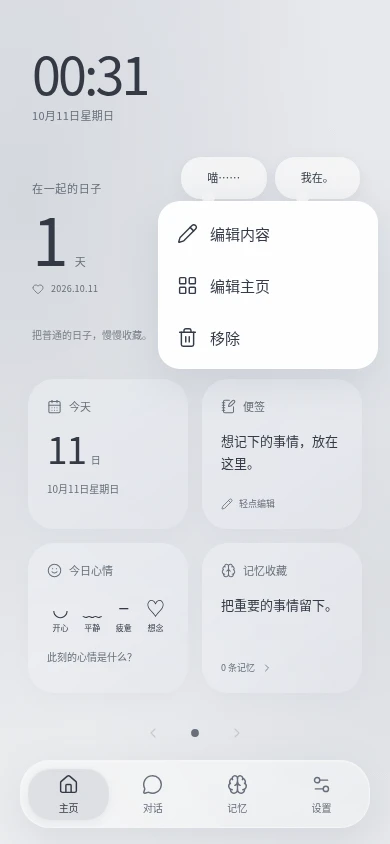
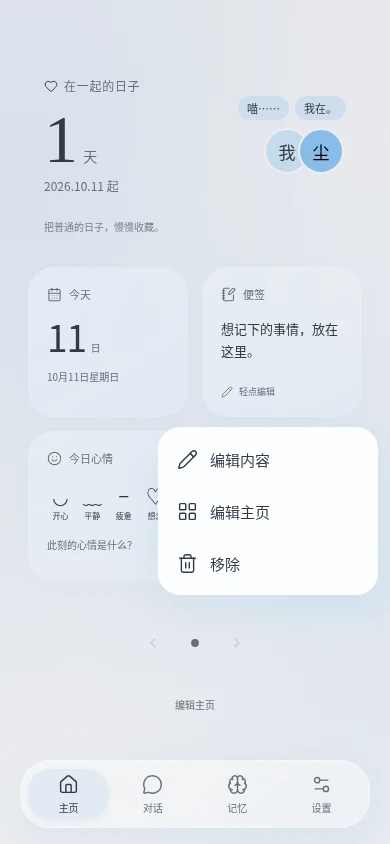
Redesign transparent anniversary widget and add sample pastel themes

diff --git a/src/views.js b/src/views.js
@@ -1,4 +1,5 @@
 import { icon } from './icons.js';
+export const THEME_PRESETS=[['天蓝','#8dc3f0'],['樱粉','#f2a7be'],['蜜桃','#f7b99a'],['柠檬','#f4d66e'],['抹茶','#b3d79b'],['薄荷','#8ed6c0'],['香芋','#b7a2e2']];
 import { daysTogether, isExpired, orderedSessions } from './store.js';
 export const escape = value => String(value ?? '').replace(/[&<>"']/g, c => ({'&':'&amp;','<':'&lt;','>':'&gt;','"':'&quot;',"'":'&#39;'}[c]));
 export const button = (action, symbol, label, extra = '') => `<button type="button" data-action="${action}" aria-label="${label}" ${extra}>${icon(symbol)}</button>`;
@@ -27,7 +28,6 @@ export function plugins(state) {
  return `<div class="info-banner">当前仅管理配置；MCP 与插件运行尚未接入。</div><div class="plugin-list">${state.plugins.length ? state.plugins.map(p => `<article class="plugin-card"><div class="plugin-top"><div class="plugin-symbol">${icon('puzzle')}</div><div><h2>${escape(p.name)}</h2><p>${escape(p.type === 'mcp' ? '远程 MCP' : '插件配置')}</p></div>${button('delete-plugin','trash','删除插件配置',`data-id="${escape(p.id)}"`)}</div><p class="endpoint">${escape(p.url)}</p><div class="plugin-bottom"><span>未连接 · 仅配置</span><button data-action="edit-plugin" data-id="${escape(p.id)}">编辑</button></div></article>`).join('') : `<div class="empty-card">${icon('puzzle')}<h2>还没有添加插件</h2><p>先收藏你想接入的服务，<br>等运行层准备好，再让它们开始工作。</p></div>`}</div><form id="plugin-form" class="panel"><div class="section-title"><h2 id="plugin-form-title">添加配置</h2><span>MCP / PLUGIN</span></div><input type="hidden" name="id">${field('名称','name','','例如：搜索工具') }<label class="field"><span>类型</span><select name="type"><option value="mcp">远程 MCP</option><option value="plugin">插件</option></select></label>${field('服务地址','url','','https://example.com/mcp','url')}<p class="hint">此版本不连接地址，也不执行插件代码。请勿在地址中填写密钥。</p><button class="primary" type="submit">保存配置</button></form>`;
 }
 export const widgetLabels = {date:'今天',note:'便签',mood:'今日心情',memory:'记忆收藏'};
-const date = () => new Date().toLocaleDateString('zh-CN',{month:'long',day:'numeric',weekday:'long'});
 export function home(state,ui={}) {
  const h=state.home,days=daysTogether(h.since),memories=state.memories.filter(m=>!isExpired(m)),editing=!!ui.editing;
  const label=type=>escape(h.widgetTitles?.[type]||widgetLabels[type]);
@@ -39,7 +39,7 @@ export function home(state,ui={}) {
  memory:`<button class="widget glass memory-widget" data-action="memory"><span class="widget-label">${icon('memory')}${label('memory')}</span><p>${escape(chosen?.title||'把重要的事情留下。')}</p><span class="widget-foot">${memories.length} 条记忆 ${icon('chevron')}</span></button>`
  };
  const wrap=(type,content)=>`<div class="home-widget ${type==='anniversary'?'hero-widget':''}" data-home-widget="${type}" tabindex="0" aria-label="${type==='anniversary'?'纪念日':label(type)}，${editing?'拖拽移动，Alt 加方向键调整位置':'长按或右键打开菜单'}"><div class="widget-surface" ${editing?'inert':''}>${content}</div>${editing?`<div class="widget-drag-surface" aria-hidden="true"></div><button class="widget-remove" data-home-action="hide" data-type="${type}" aria-label="移除${type==='anniversary'?'纪念日':label(type)}">${icon('close')}</button>`:''}</div>`;
- const hero=`<section class="anniversary"><div class="home-clock"><time data-home-clock aria-label="当前时间，24 小时制">${new Date().toLocaleTimeString('en-GB',{hour:'2-digit',minute:'2-digit',hour12:false})}</time><span>${date()}</span></div><div class="anniversary-bottom"><div class="anniversary-days"><span class="anniversary-title">${escape(h.title)}</span><div class="day-count ${String(days>0?days:1-(days||0)).length>4?'long-count':''}"><strong data-home-days>${days>0?days:1-(days||0)}</strong><span data-home-days-unit>${days>0?'天':'天后开始'}</span></div><span class="since">${icon('heart')}${escape(h.since.replaceAll('-','.'))}</span></div><div class="home-partners">${[['user',h.userName,h.userBubble||'喵……'],['ai',state.persona.name,h.aiBubble||'我在。']].map(([who,name,bubble])=>`<div class="home-partner"><span class="thought-bubble"><span>${escape(bubble)}</span></span>${avatar(state,who)}<span class="partner-name">${escape(name)}</span></div>`).join('')}</div></div>${h.subtitle?`<p>${escape(h.subtitle)}</p>`:''}</section>`;
+ const hero=`<section class="anniversary anniversary-horizontal"><div class="anniversary-row"><div class="anniversary-days"><span class="anniversary-title">${icon('heart')}${escape(h.title)}</span><div class="day-count ${String(days>0?days:1-(days||0)).length>4?'long-count':''}"><strong data-home-days>${days>0?days:1-(days||0)}</strong><span data-home-days-unit>${days>0?'天':'天后开始'}</span></div><span class="since">${escape(h.since.replaceAll('-','.'))} 起</span></div><div class="anniversary-companions"><div class="anniversary-bubbles">${[['user',h.userName,h.userBubble||'喵……'],['ai',state.persona.name,h.aiBubble||'我在。']].map(([who,name,bubble])=>`<span class="anniversary-pill" title="${escape(name)}：${escape(bubble)}"><span class="sr-only">${escape(name)}：</span>${escape(bubble)}</span>`).join('')}</div><div class="anniversary-avatars">${[['user',h.userName],['ai',state.persona.name]].map(([who,name])=>`<span class="anniversary-avatar ${who}" title="${escape(name)}" aria-label="${escape(name)}">${avatar(state,who)}</span>`).join('')}</div></div></div>${h.subtitle?`<p class="anniversary-caption">${escape(h.subtitle)}</p>`:''}</section>`;
  const pages=ui.dragPages||h.pages||[['anniversary',...h.widgets.map(w=>w.type)]],current=Math.min(ui.page||0,pages.length-1);
  const visible=pages[current].filter(type=>type==='anniversary'?h.anniversaryVisible!==false:h.widgets.some(w=>w.type===type&&w.enabled));
  return `<div class="home-content home-desktop ${editing?'home-editing':''}">${editing?`<div class="home-edit-toolbar"><button class="glass" data-home-action="add" aria-label="添加小组件">${icon('plus')}组件</button><button class="glass" data-home-action="add-page" ${pages.length>=12?'disabled':''}>${icon('layout')}新增页</button><button class="glass" data-home-action="done">完成</button></div><p class="home-edit-help">拖拽调整位置 · 拖到边缘停留可翻页</p>`:''}<section class="home-desktop-page" aria-label="第 ${current+1} 页" data-home-page="${current}"><div class="widget-grid">${visible.map(type=>wrap(type,type==='anniversary'?hero:widgets[type])).join('')}</div>${visible.length?'':`<div class="home-page-empty"><span>${icon('layout')}</span><p>${editing?'从其他页拖入组件，或添加小组件':'这一页，留给新的日常。'}</p>${editing?'<button class="glass" data-home-action="add">添加小组件</button>':''}</div>`}</section><div class="home-page-controls"><button data-home-action="page" data-page="${current-1}" aria-label="上一页" ${current===0?'disabled':''}>${icon('up')}</button><nav class="home-page-dots" aria-label="主页分页">${pages.map((_,i)=>`<button data-home-action="page" data-page="${i}" aria-label="第 ${i+1} 页" ${i===current?'aria-current="page"':''}><span></span></button>`).join('')}</nav><button data-home-action="page" data-page="${current+1}" aria-label="下一页" ${current===pages.length-1?'disabled':''}>${icon('down')}</button></div>${editing?'':`<button class="home-edit-entry" data-home-action="begin">编辑主页</button>`}</div>`;
@@ -54,7 +54,7 @@ export function memoryEditor(memory,source='') {
 function detail(id,title,symbol,body,summary='') {return `<details id="${id}" class="settings-section glass"><summary><span class="settings-symbol">${icon(symbol)}</span><span><strong>${title}</strong>${summary?`<small>${summary}</small>`:''}</span>${icon('chevron')}</summary><div class="settings-body">${body}</div></details>`;}
 export function settings(state) {
  const a=state.appearance,h=state.home, total=state.sessions.reduce((n,s)=>n+s.messages.length,0);
- const appearance=`<div class="setting-row"><span>夜间模式</span><button class="toggle ${state.theme==='dark'?'on':''}" data-action="theme" role="switch" aria-checked="${state.theme==='dark'}" aria-label="夜间模式"><span></span></button></div><label class="field color-field"><span>主题色</span><input type="color" name="accent" value="${a.accent}" aria-label="主题色"></label><div class="color-presets">${['#7a879a','#9e83a4','#699b91','#bd8c92','#927f61'].map(c=>`<button data-action="accent" data-color="${c}" style="--swatch:${c}" aria-label="主题色 ${c}" aria-pressed="${a.accent===c}">${a.accent===c?icon('check'):''}</button>`).join('')}</div><label class="field"><span>玻璃透明度 <output id="opacity-output">${100-a.opacity}%</output></span><input type="range" name="opacity" min="30" max="95" value="${a.opacity}"></label><label class="field"><span>背景模糊 <output id="blur-output">${a.blur}px</output></span><input type="range" name="blur" min="0" max="40" value="${a.blur}"></label><div class="image-options">${[['wallpaper','壁纸','image'],['userAvatar','我的头像','person'],['aiAvatar','AI 头像','person']].map(([key,label,symbol])=>`<div class="image-option"><div class="image-preview ${key==='wallpaper'?'wallpaper-preview':''}">${a[key]?`<img src="${escape(a[key])}" alt="${label}">`:icon(symbol)}</div><label class="upload-label">${label}<input type="file" data-image="${key}" accept="image/png,image/jpeg,image/webp"></label><button data-action="clear-image" data-key="${key}" class="text-button" ${a[key]?'':'disabled'}>恢复默认</button></div>`).join('')}</div><p class="hint">图片保存在本机，会压缩后保存；推荐使用 JPG、PNG 或 WebP。</p>`;
+ const appearance=`<div class="setting-row"><span>夜间模式</span><button class="toggle ${state.theme==='dark'?'on':''}" data-action="theme" role="switch" aria-checked="${state.theme==='dark'}" aria-label="夜间模式"><span></span></button></div><label class="field color-field"><span>主题色</span><input type="color" name="accent" value="${a.accent}" aria-label="主题色"></label><div class="color-presets">${THEME_PRESETS.map(([name,c])=>`<button data-action="accent" data-color="${c}" style="--swatch:${c}" aria-label="${name} ${c}" title="${name}" aria-pressed="${a.accent===c}">${a.accent===c?icon('check'):''}</button>`).join('')}</div><label class="field"><span>玻璃透明度 <output id="opacity-output">${100-a.opacity}%</output></span><input type="range" name="opacity" min="30" max="95" value="${a.opacity}"></label><label class="field"><span>背景模糊 <output id="blur-output">${a.blur}px</output></span><input type="range" name="blur" min="0" max="40" value="${a.blur}"></label><div class="image-options">${[['wallpaper','壁纸','image'],['userAvatar','我的头像','person'],['aiAvatar','AI 头像','person']].map(([key,label,symbol])=>`<div class="image-option"><div class="image-preview ${key==='wallpaper'?'wallpaper-preview':''}">${a[key]?`<img src="${escape(a[key])}" alt="${label}">`:icon(symbol)}</div><label class="upload-label">${label}<input type="file" data-image="${key}" accept="image/png,image/jpeg,image/webp"></label><button data-action="clear-image" data-key="${key}" class="text-button" ${a[key]?'':'disabled'}>恢复默认</button></div>`).join('')}</div><p class="hint">图片保存在本机，会压缩后保存；推荐使用 JPG、PNG 或 WebP。</p>`;
  const persona=`<form id="persona-form">${field('AI 名字','name',state.persona.name,'尘')}<label class="field"><span>角色设定</span><textarea name="prompt" rows="4" maxlength="12000" placeholder="希望的语气、性格与相处方式…">${escape(state.persona.prompt)}</textarea></label><button class="primary" type="submit">保存角色</button></form>`;
  const provider=`<form id="provider-form"><label class="field"><span>接口类型</span><select name="protocol">${[['openai','OpenAI 兼容'],['anthropic','Anthropic'],['gemini','Google Gemini']].map(([v,l])=>`<option value="${v}" ${state.provider.protocol===v?'selected':''}>${l}</option>`).join('')}</select></label>${field('API 基础地址','baseUrl',state.provider.baseUrl,'https://api.example.com/v1','url')}${field('模型 ID','model',state.provider.model,'填写服务商提供的模型 ID')}<label class="field"><span>API 密钥</span><input type="password" placeholder="接入模型时开放" disabled></label><p class="hint">当前只保存配置，模型尚未连接。</p><button class="primary" type="submit">保存模型配置</button></form>`;
  const storage=`<div class="storage-status"><span>当前储存</span><strong>本机浏览器</strong><p>约 ${(new Blob([JSON.stringify(state)]).size/1024).toFixed(1)} KB · 尚未开启云同步</p></div><button class="secondary" data-action="export">${icon('download')}导出完整备份</button><label class="upload-label import-label">${icon('upload')}导入备份<input type="file" id="import-data" accept="application/json,.json"></label><p class="hint">包含会话、记忆、外观、头像和配置。导入会替换当前数据，请先导出；清除浏览器数据会丢失本机记录。</p>`;

diff --git a/src/style.css b/src/style.css
@@ -116,3 +116,27 @@ dialog[open]::backdrop{animation:backdrop-arrive 180ms ease-out}
 .home-context-menu[open]{animation:none}
 @media(prefers-reduced-motion:no-preference){.home-context-menu[open]{animation:widget-menu-fade 140ms ease-out}@keyframes widget-menu-fade{from{opacity:0}to{opacity:1}}}
 .home-page-controls button,.home-edit-toolbar button{touch-action:manipulation}
+
+/* Compact transparent anniversary, following the supplied horizontal example. */
+.home-widget .anniversary-horizontal{padding:24px 12px 18px;background:transparent;border:0;box-shadow:none;backdrop-filter:none}
+.anniversary-row{display:grid;grid-template-columns:minmax(0,1fr) minmax(0,1fr);align-items:center;gap:16px;min-height:150px;padding:8px 4px}
+.anniversary-horizontal .anniversary-days{padding:0}
+.anniversary-horizontal .anniversary-title{display:flex;align-items:center;gap:6px;font-size:12px;letter-spacing:.06em;line-height:1.5;overflow-wrap:anywhere}
+.anniversary-horizontal .anniversary-title svg{width:14px;height:14px;color:var(--ink)}
+.anniversary-horizontal .day-count{gap:6px;margin:10px 0 4px;flex-wrap:wrap}
+.anniversary-horizontal .day-count strong{font-family:Georgia,'Times New Roman',serif;font-variant-numeric:oldstyle-nums;font-size:68px;line-height:1;font-weight:400;letter-spacing:-.01em}
+.anniversary-horizontal .day-count>span{font-size:14px}
+.anniversary-horizontal .day-count.long-count strong{font-size:44px}
+.anniversary-horizontal .since{font-size:12px;letter-spacing:0;font-variant-numeric:tabular-nums}
+.anniversary-companions{min-width:0;display:flex;flex-direction:column;align-items:flex-end;gap:8px}
+.anniversary-bubbles{width:100%;display:flex;justify-content:flex-end;align-items:flex-end;gap:6px;max-width:100%}
+.anniversary-pill{min-width:0;max-width:calc(50% - 3px);padding:4px 9px;border-radius:12px;background:color-mix(in srgb,var(--accent) 30%,var(--solid));font-size:11px;line-height:1.5;overflow-wrap:anywhere;white-space:pre-wrap;color:var(--ink)}
+.anniversary-avatars{display:flex;justify-content:flex-end;align-items:center;padding-right:2px}
+.anniversary-avatar{display:block;position:relative}
+.anniversary-avatar.ai{margin-left:-12px;z-index:1}
+.anniversary-avatar .avatar{width:46px;height:46px;border:2px solid var(--solid);box-shadow:none;background:color-mix(in srgb,var(--accent) 40%,var(--solid));color:var(--ink)}
+.anniversary-avatar.ai .avatar{background:var(--accent);color:var(--accent-ink,var(--ink))}
+.anniversary-avatar .avatar>span{font-size:17px;opacity:1}
+.home-widget .anniversary-horizontal>.anniversary-caption{font-size:10px;margin:8px 4px 0;line-height:1.7}
+.color-presets{flex-wrap:wrap}
+@media(max-width:380px){.home-widget .anniversary-horizontal{padding:20px 4px 16px}.anniversary-row{gap:12px;padding:8px 0}.anniversary-horizontal .day-count strong{font-size:62px}.anniversary-pill{padding:4px 7px}}

diff --git a/src/app.js b/src/app.js
@@ -17,7 +17,7 @@ const homeEditor=createHomeEditor({app,getState:()=>state,setState:value=>{state
 function notify(value){const n=document.querySelector('#notice');n.textContent=value;n.classList.add('visible');clearTimeout(toastTimer);toastTimer=setTimeout(()=>n.classList.remove('visible'),3500);}
 function persist(){try{saveState(storage,state);return true;}catch{notify('本机存储不足或不可用。修改尚未保存，请导出备份或换一张更小的图片。');return false;}}
 function saveNotice(text){if(persist())notify(text);}
-function applyAppearance(){const root=document.documentElement,a=state.appearance;root.dataset.theme=state.theme;root.style.setProperty('--accent',a.accent);const rgb=a.accent.slice(1).match(/../g).map(c=>parseInt(c,16));root.style.setProperty('--tint',rgb.join(' '));root.style.setProperty('--glass-alpha',a.opacity/100);root.style.setProperty('--glass-blur',`${a.blur}px`);root.style.setProperty('--wall-image',a.wallpaper?`url("${a.wallpaper}")`:'none');root.dataset.wallpaper=String(Boolean(a.wallpaper));document.querySelector('meta[name=theme-color]').content=state.theme==='dark'?'#20232d':'#eceef3';}
+function applyAppearance(){const root=document.documentElement,a=state.appearance;root.dataset.theme=state.theme;root.style.setProperty('--accent',a.accent);const rgb=a.accent.slice(1).match(/../g).map(c=>parseInt(c,16));root.style.setProperty('--tint',rgb.join(' '));const luminance=rgb.map(c=>c/255).map(c=>c<=.04045?c/12.92:((c+.055)/1.055)**2.4).reduce((sum,c,i)=>sum+c*[.2126,.7152,.0722][i],0);root.style.setProperty('--accent-ink',luminance>.179?'#000000':'#ffffff');root.style.setProperty('--glass-alpha',a.opacity/100);root.style.setProperty('--glass-blur',`${a.blur}px`);root.style.setProperty('--wall-image',a.wallpaper?`url("${a.wallpaper}")`:'none');root.dataset.wallpaper=String(Boolean(a.wallpaper));document.querySelector('meta[name=theme-color]').content=state.theme==='dark'?'#20232d':'#eceef3';}
 function render(){
  for(const node of app.querySelectorAll('details')){if(node.open)opened.add(node.id);else opened.delete(node.id);}
  applyAppearance();

diff --git a/src/home-editor.js b/src/home-editor.js
@@ -123,7 +123,7 @@ export function createHomeEditor({app,getState,setState,persist,render,notify,co
   })){dialog.close();refresh();notify('小组件已保存。');}
  });
  dialog.addEventListener('close',()=>{draft=null;app.querySelector(`[data-home-widget="${type}"]`)?.focus({preventScroll:true});});
- function clock(){if(lastDate!==localDate()){lastDate=localDate();if(app.querySelector('.home-page'))refresh();}const clock=app.querySelector('[data-home-clock]');if(!clock)return;const now=new Date(),h=getState().home,days=daysTogether(h.since);clock.textContent=now.toLocaleTimeString('en-GB',{hour:'2-digit',minute:'2-digit',hour12:false});clock.dateTime=now.toISOString();const count=app.querySelector('[data-home-days]');if(count)count.textContent=days>0?days:1-(days||0);const unit=app.querySelector('[data-home-days-unit]');if(unit)unit.textContent=days>0?'天':'天后开始';}
+ function clock(){if(lastDate!==localDate()){lastDate=localDate();if(app.querySelector('.home-page'))refresh();}const clock=app.querySelector('[data-home-clock]');const now=new Date(),h=getState().home,days=daysTogether(h.since);if(clock){clock.textContent=now.toLocaleTimeString('en-GB',{hour:'2-digit',minute:'2-digit',hour12:false});clock.dateTime=now.toISOString();}const count=app.querySelector('[data-home-days]');if(count)count.textContent=days>0?days:1-(days||0);const unit=app.querySelector('[data-home-days-unit]');if(unit)unit.textContent=days>0?'天':'天后开始';}
  setInterval(clock,1000);document.addEventListener('visibilitychange',clock);
  return {ui,exit(){closeMenu();finishDrag(false);ui.editing=false;ui.page=Math.max(0,Math.min(ui.page,getState().home.pages.length-1));cancel();gesture=null;},clock};
 }

diff --git a/docs/CODEX_HANDOFF.md b/docs/CODEX_HANDOFF.md
@@ -20,7 +20,7 @@
 
 - 清透、半透明、克制的 iOS 液态玻璃风格。用网页材质模拟，不是系统原生 Liquid Glass。
 - 用户觉得花哨的装饰太多，希望柔和、留白、统一的图标。当前使用 Lucide SVG，无需为了 React Icons 换掉框架。
-- 配色走主题变量，支持夜间模式。壁纸、用户头像、AI 头像可替换；不要写死个人图片或主题色。
+- 配色走主题变量，支持夜间模式。预设色按用户示例替换为天蓝 `#8dc3f0`（第一位）、樱粉 `#f2a7be`、蜜桃 `#f7b99a`、柠檬 `#f4d66e`、抹茶 `#b3d79b`、薄荷 `#8ed6c0`、香芋 `#b7a2e2`；不强制覆盖已有主题选择。壁纸、用户头像、AI 头像可替换；不要写死个人图片或主题色。
 - 动画轻而自然：按压反馈、页面切换、弹窗/抽屉、侧边栏、选中和组件换位。遵循 `prefers-reduced-motion`，不要一直摇晃或增加长等待。
 - 预览图应来自实际代码界面；参考图只是方向，不代表已实现。不要把用户提供的截图、立绘或头像擅自放入公共仓库。
 
@@ -30,7 +30,7 @@
 
 - 默认打开主页；主导航只有「主页、对话、记忆、设置」。对话页与完整会话列表隐藏底栏。
 - 主页顶部原来的品牌/「我们的主页」标题区域已删除。
-- 纪念日为透明无边框布局：上方实时 24 小时时钟，左下天数/日期，右下双头像，头像上方各有一个可编辑的小气泡。
+- 纪念日按用户提供的横向示例重做：透明无边框，左侧标题、衬线大号天数和开始日期，右侧胶囊气泡与重叠双头像。组件内原来的时钟已移除，保留可编辑说明、双方名字与头像数据。
 - 主页小组件包括今天、便签、心情、记忆收藏。
 - 长按或右键主页组件，在组件附近弹出「编辑内容、编辑主页、移除」菜单；支持键盘入口、方向键、Escape 与点击外部关闭。编辑内容只打开当前组件的编辑抽屉。
 - 「编辑主页」进入全局布局模式，直接拖拽组件排序（含纪念日），使用角落的 × 移除，不再提供选中模式或箭头排序，也不打开内容编辑。底部保留「编辑主页」入口。
@@ -77,7 +77,7 @@
 - `index.html`：入口和开屏加载。
 - `src/app.js`：导航、事件、本机交互、图片处理。
 - `src/views.js`：页面模板。
-- `src/home-editor.js`：主页菜单、拖拽/分页、编辑抽屉、头像草稿和实时时钟。
+- `src/home-editor.js`：主页菜单、拖拽/分页、编辑抽屉、头像草稿和跨日刷新。
 - `src/home-layout.js`：分页迁移、组件移动与菜单定位。
 - `src/store.js`：状态、迁移、验证、会话/分支、记忆、备份。
 - `src/style.css`：主题、玻璃材质、布局与动效。

diff --git a/docs/verification.md b/docs/verification.md
@@ -23,3 +23,10 @@
 - 浏览器验证：菜单按组件位置分别出现；编辑主页不含选中或箭头排序；拖拽页内排序、边缘停留跨页移动、取消拖拽不保存、分页刷新恢复、左右滑动和键盘移动通过。
 - Chromium 触屏事件验证：长按松手不误触菜单、拖拽跨页、横向滑动后首次导航点击、夜间模式及动画通过。仍需用户在真实手机上确认手感。
 - `preview-home.webp` / `preview-home-editing.webp` 已更新，并新增 `preview-home-menu.webp` / `preview-home-page2.webp`，均来自实际代码运行截图。
+
+## 横向纪念日与马卡龙预设色
+
+- 按用户 HTML 示例调整为衬线天数、日期、胶囊气泡和重叠头像；组件自身无背景、边框或装饰光斑，不引入示例中的外部字体/图标依赖。
+- 设置包含示例的七个准确色值，天蓝排列第一；已有主题选择及用户自定义色继续保留。
+- 全部语法检查和 17 项测试通过。浏览器验证七个色值及顺序、背景透明、纪念日字段保存与刷新恢复，320 / 375 / 390px 和横屏无横向溢出，夜间模式无页面错误。
+- 主页预览已更新，新增 `preview-theme-presets.webp`。上传的示例文件未加入公共仓库。
